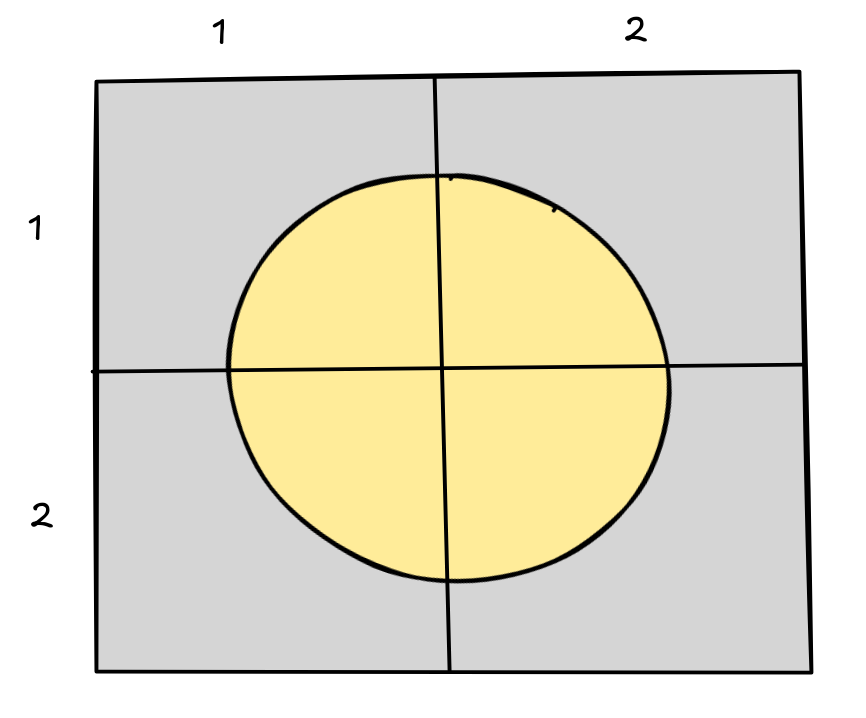
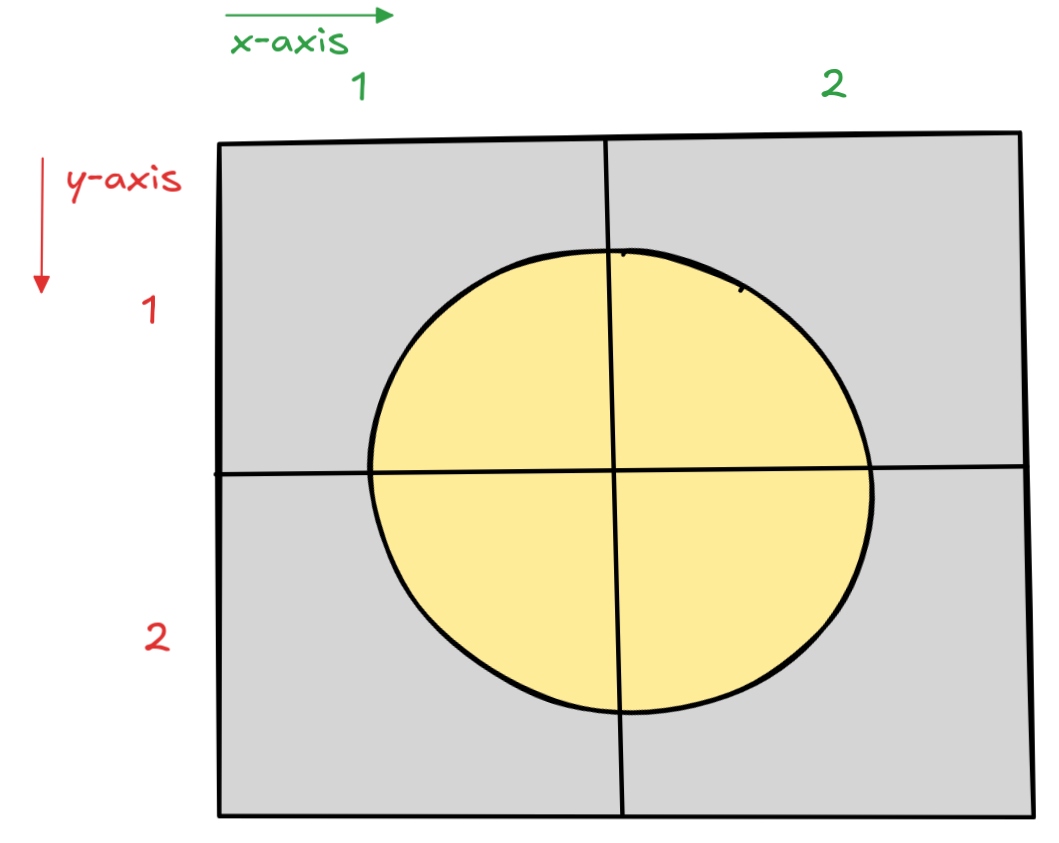
Add further solutions for formal languages

diff --git a/content/exercises/formal-languages/index.md b/content/exercises/formal-languages/index.md
@@ -255,7 +255,7 @@ a propositional variable. But this formula starts with a propositional variable 
 
     If we wanted to give it "the other" reading, we would need to write $KNpq$.
 
-# Knowledge representation
+# Knowledge representation {.solved}
 
 {{< logo >}}&nbsp; has taken up {{< abbr title="state-sanctioned piracy, nothing illegal going on here...">}}privateering{{</abbr>}}. Now, he's got a treasure of numerous Bitcoin, rare computer chips, and Alan Turing's old {{< abbr title="knowledge base">}}KB{{< /abbr >}}.
 
@@ -269,7 +269,7 @@ First, he divided the disk-world into 4 quadrants, indicating in the following c
 
 {{< img src="img/map.png" class="rounded mx-auto my-4 d-block inert-img img-fluid" width="550px">}}
 
-He then devised a formal language with propositional variables {{< excalifont >}}T(i,j){{</excalifont>}} to say that the treasure is at coordinate {{< excalifont >}}(i,j){{</excalifont>}} with the first component being the {{<excalifont>}}x{{</excalifont>}}-axis and the second the {{<excalifont>}}y{{</excalifont>}}-axis.
+He then devised a formal language with propositional variables {{< excalifont >}}T(i,j){{</excalifont>}} to say that the treasure is at coordinate {{< excalifont >}}(<span style="color: #2f9e44;">i</span>,<span style="color: #e03131;">j</span>){{</excalifont>}} with the first component being the {{<excalifont>}}<span style="color: #2f9e44;">x</span>{{</excalifont>}}-axis and the second the {{<excalifont>}}<span style="color: #e03131;">y</span>{{</excalifont>}}-axis.
 
 Correspondingly, the BNF of his language is:
 
@@ -301,7 +301,23 @@ Help {{< logo >}}&nbsp; to represent the following hints about the treasure's lo
 8. The treasure is everywhere on the disk-world.
 
 
-# Knowledge extraction 
+## Solution {.solution #knowledge-representationSolution}
+
+1. A straight-forward representation is {{< img src="img/representation1.png" class="inert-img" height="38px" style="vertical-align: middle;" >}}. But an equally valid alternative is: {{< img src="img/representation1a.png" class="inert-img" height="32px" style="vertical-align: middle;" >}}.
+2. This one is trickier than it might seem at first. I've attached a paraphrase to facilitate reading:
+
+  {{< img src="img/representation2.png" class="rounded mx-auto my-4 d-block inert-img img-fluid" width="750px">}}
+
+3. This one has at least two readings in natural language. The most straight-forwardly intended one is {{< img src="img/representation3.png" class="inert-img" height="38px" style="vertical-align: middle;" >}}, which reads as if the treasure is not in the lower right and not in the lower left, then it's in the upper left. But if we take the "only if" parlance seriously, and read the statement as "if the treasure is not in the lower right, then it's only in the upper left, if it's not in the lower left," we get this formula: {{< img src="img/representation3a.png" class="inert-img" height="38px" style="vertical-align: middle;" >}}.
+4. This is then just the consequence of the second reading from 3.: {{< img src="img/representation4.png" class="inert-img" height="38px" style="vertical-align: middle;" >}}
+5. {{< img src="img/representation5.png" class="inert-img" height="38px" style="vertical-align: middle;" >}}
+6. {{< img src="img/representation6.png" class="inert-img" height="38px" style="vertical-align: middle;" >}}
+7. A very straight-forward reading is this: {{< img src="img/representation7.png" class="inert-img" height="38px" style="vertical-align: middle;" >}} ("the treasure is not here, not here, not here, and not here"), but an equivalent statement is just the negation of 6.: {{< img src="img/representation7a.png" class="inert-img" height="38px" style="vertical-align: middle;" >}}. 
+8. {{< img src="img/representation8.png" class="inert-img" height="38px" style="vertical-align: middle;" >}}
+
+As you can see, in knowledge representation, we have to handle natural language ambiguity, there are often more than one solution, and things that sound easy in natural language, can be hard to formalize.
+
+# Knowledge extraction  {.solved}
 
 You arrive at an uninhabited planet and find an old space rover that some
 ancient civilization, which still used expert systems for AI, used to explore
@@ -316,6 +332,25 @@ following:
 
 Explain these instructions in natural language. Can you tell why the robot shut
 down?
+
+## Solution 
+
+1. If you detect rain, then seek cover.
+
+2. If your battery level is low and you detect sun, then charge your batteries.
+
+3. You detect rain just in case you don't detect sun.
+
+4. If you're charging your batteries and your battery is not charging, then request assistance.
+
+5. If you either detect rain and the battery is low or you detect sun and the battery is not charging, then shut down.
+
+The robot shut down because it's both sunny and rainy, so what its sensors are
+telling it is in contradiction to 3., which says that the robot can only ever
+detect one of the two. Introducing hidden or unexpected contradictions is a
+grave danger in knowledge representation and great care must be taken to avoid
+it. This is because in propositional logic, from a contradiction _everything_
+follows, which is an issue we'll discuss more later.
 
 # Research
 
